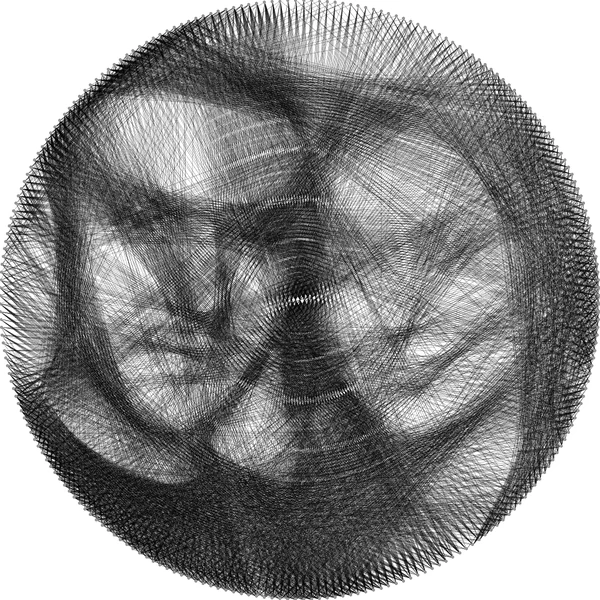
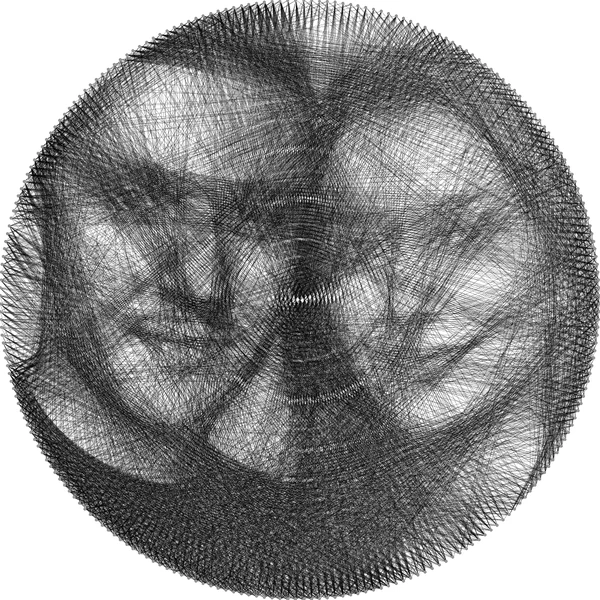
Accueil : animation avec la femme en caftan ; rendus en fil plus nets dans l'album
Claude-Session: https://claude.ai/code/session_01Y6Wof34Sh3N1L4T1nCyUUr

diff --git a/apps/web/src/app/[locale]/page.tsx b/apps/web/src/app/[locale]/page.tsx
@@ -80,7 +80,7 @@ export default async function Home({ params }: { params: Promise<{ locale: strin
               </span>
               <WeavingBoard demo={demo} />
               <figure className="medallion">
-                <img src="/visuels/martyr-photo.webp" alt={t("hero.medallion")} width={300} height={300} />
+                <img src="/visuels/caftan-photo.webp" alt={t("hero.medallion")} width={300} height={300} />
               </figure>
             </div>
             <div className="hero-copy" data-reveal style={{ ["--i" as string]: 1 }}>

diff --git a/docs/changelog.md b/docs/changelog.md
@@ -47,3 +47,5 @@ Nouveaux textes sous `home.*` (fr, en, ar).
 - Album produit : 15 visuels (Ali La Pointe, dévidoir, puis chaque portrait en fil suivi de sa photo : Salah Aougrout, Larbi Ben M'hidi, homme en veste bleue, fillette, couple, chat) ; textes alternatifs fr/en/ar.
 - Étapes sur téléphone : onglets sur deux rangées de trois, de même largeur, pour éviter que les libellés se chevauchent (vérifié aussi avec une grande taille de texte).
 - Accueil et album : la carte « Pour soi » prend la photo de la femme en caftan ; rendu en fil net (photo légèrement contrastée et accentuée avant calcul, variante contraste, poids de ligne 0,18, 3 158 lignes).
+- Accueil : l'animation de tissage montre désormais la femme en caftan (séquence du moteur, 3 158 lignes ; médaillon caftan-photo ; légende « Portrait d'exemple » fr/en/ar). Ali La Pointe reste en tête de l'album, en bas de page et dans la barre collante.
+- Album : rendus en fil plus nets pour Salah Aougrout (2 768 lignes), le couple (3 179) et la fillette (2 930) : photo contrastée et accentuée, fond gardé, variante contraste, poids de ligne 0,18 ; 4 réglages comparés pour chacun.
